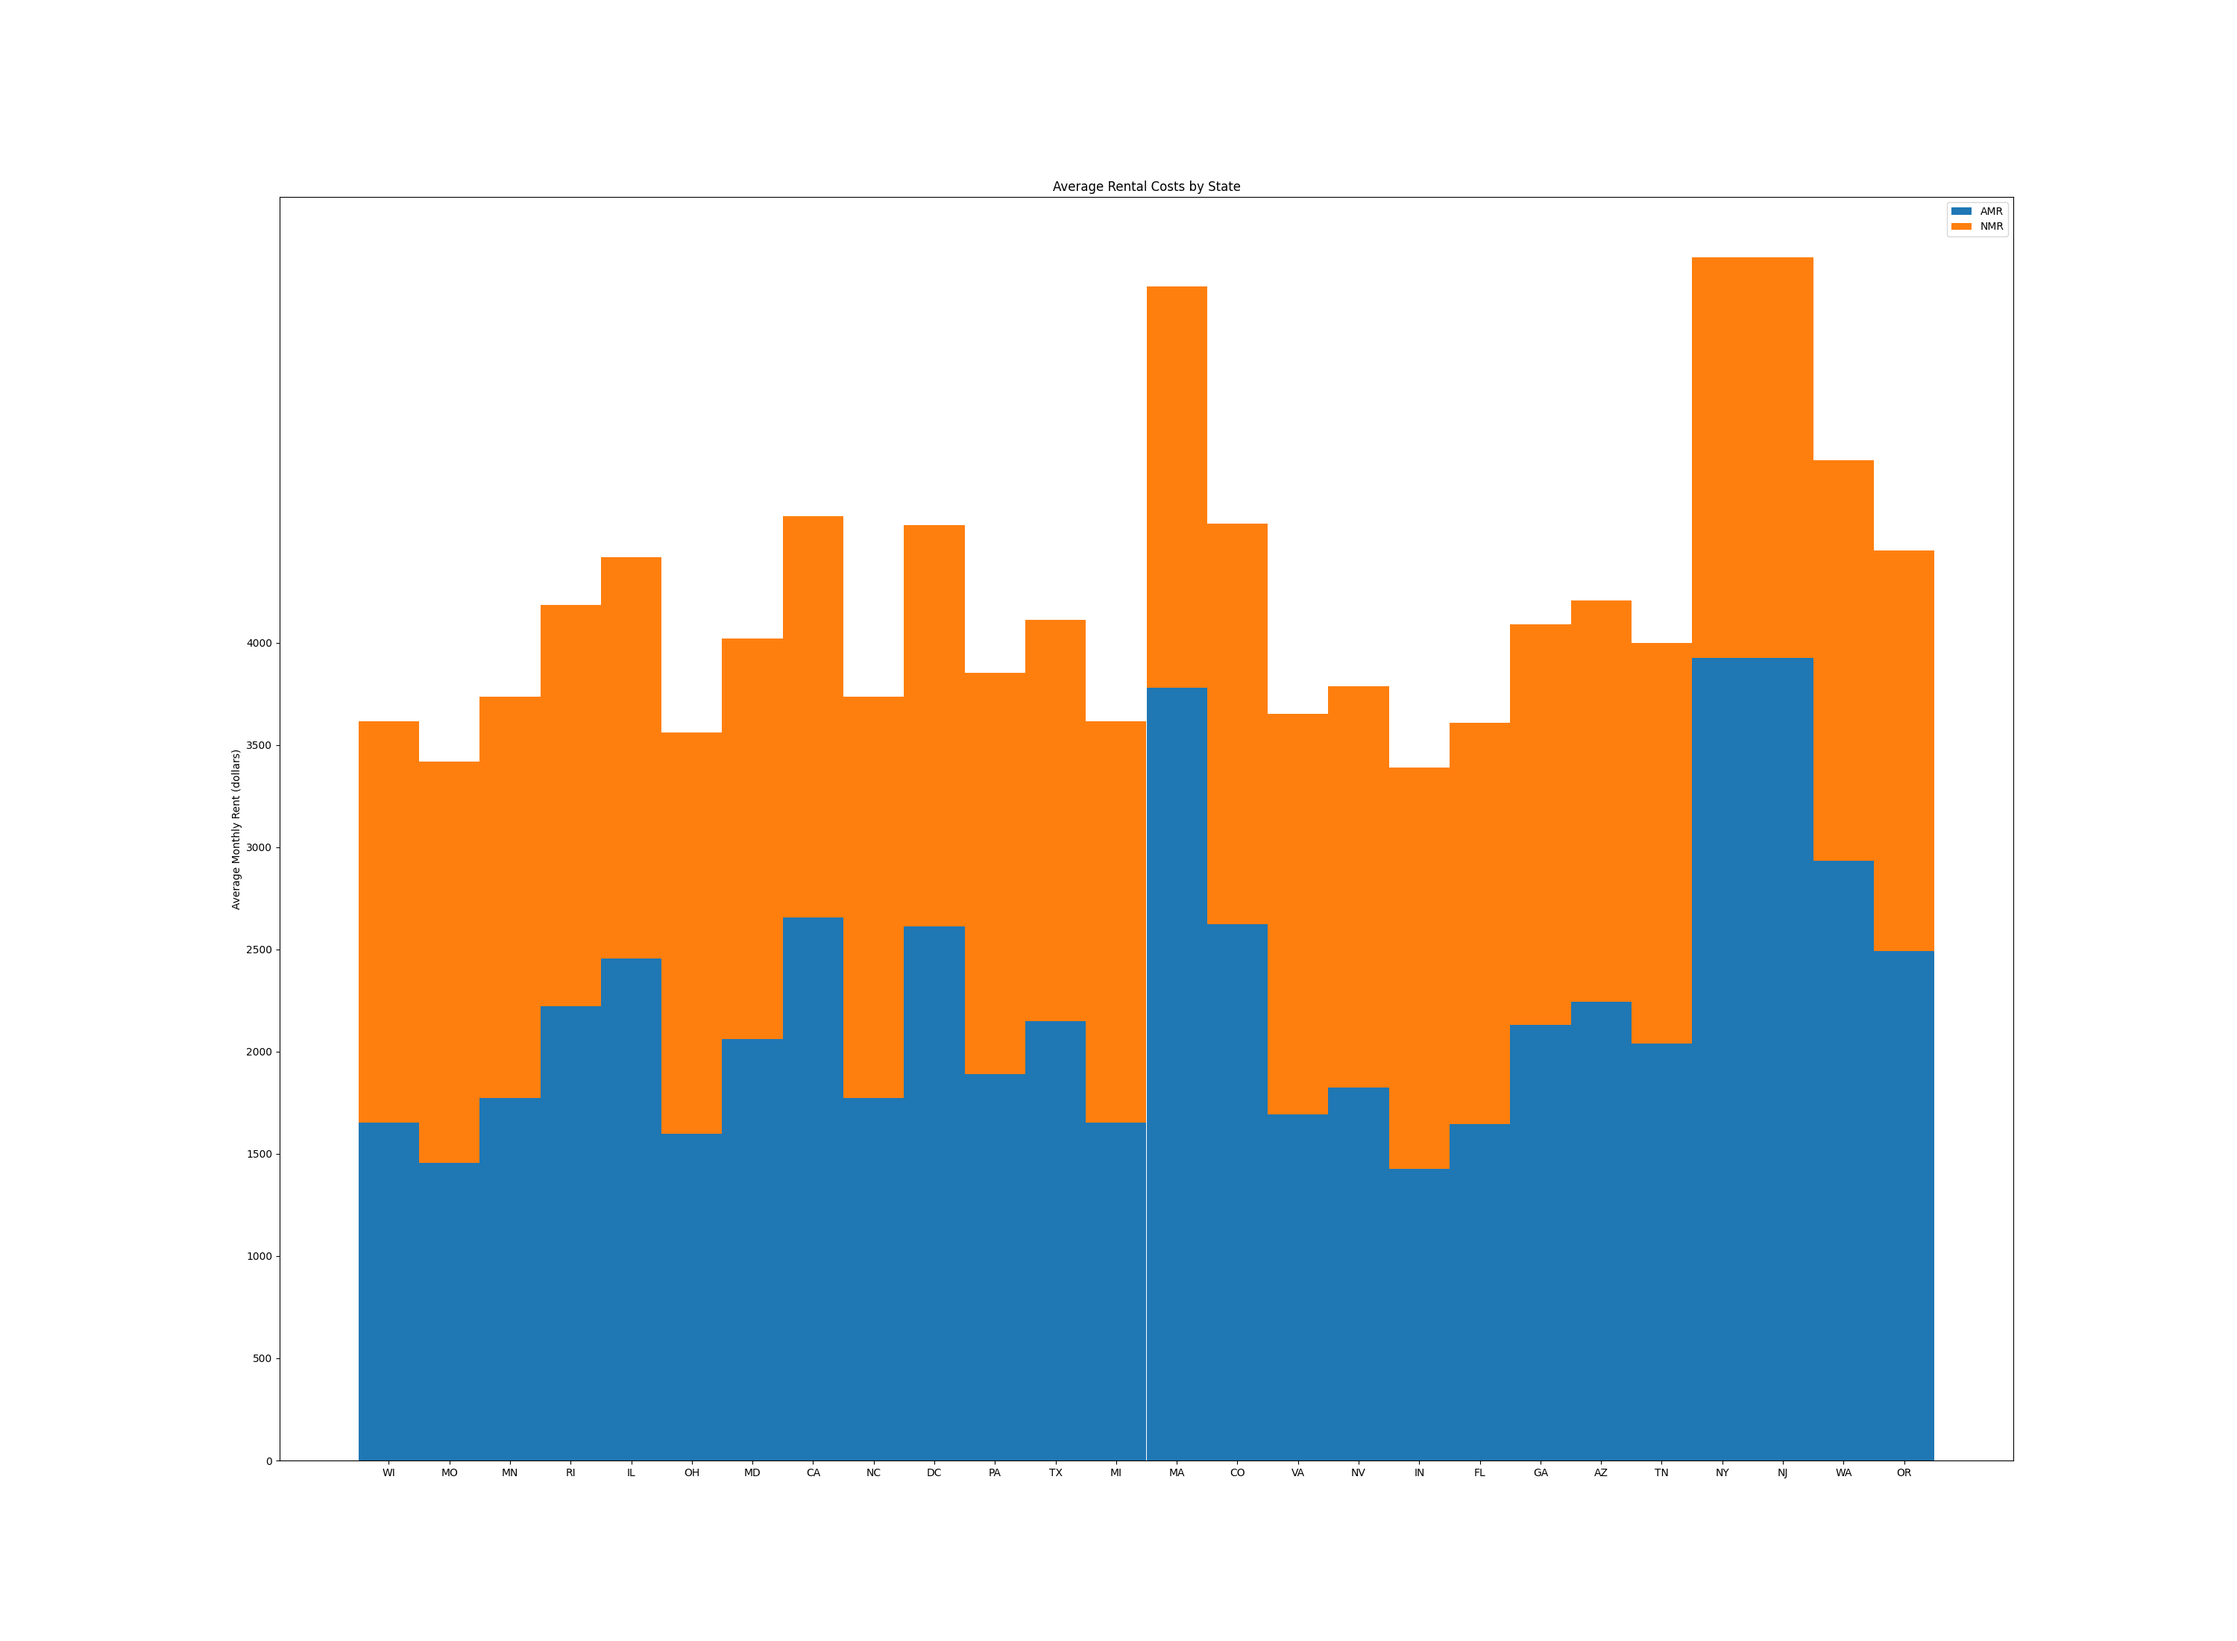
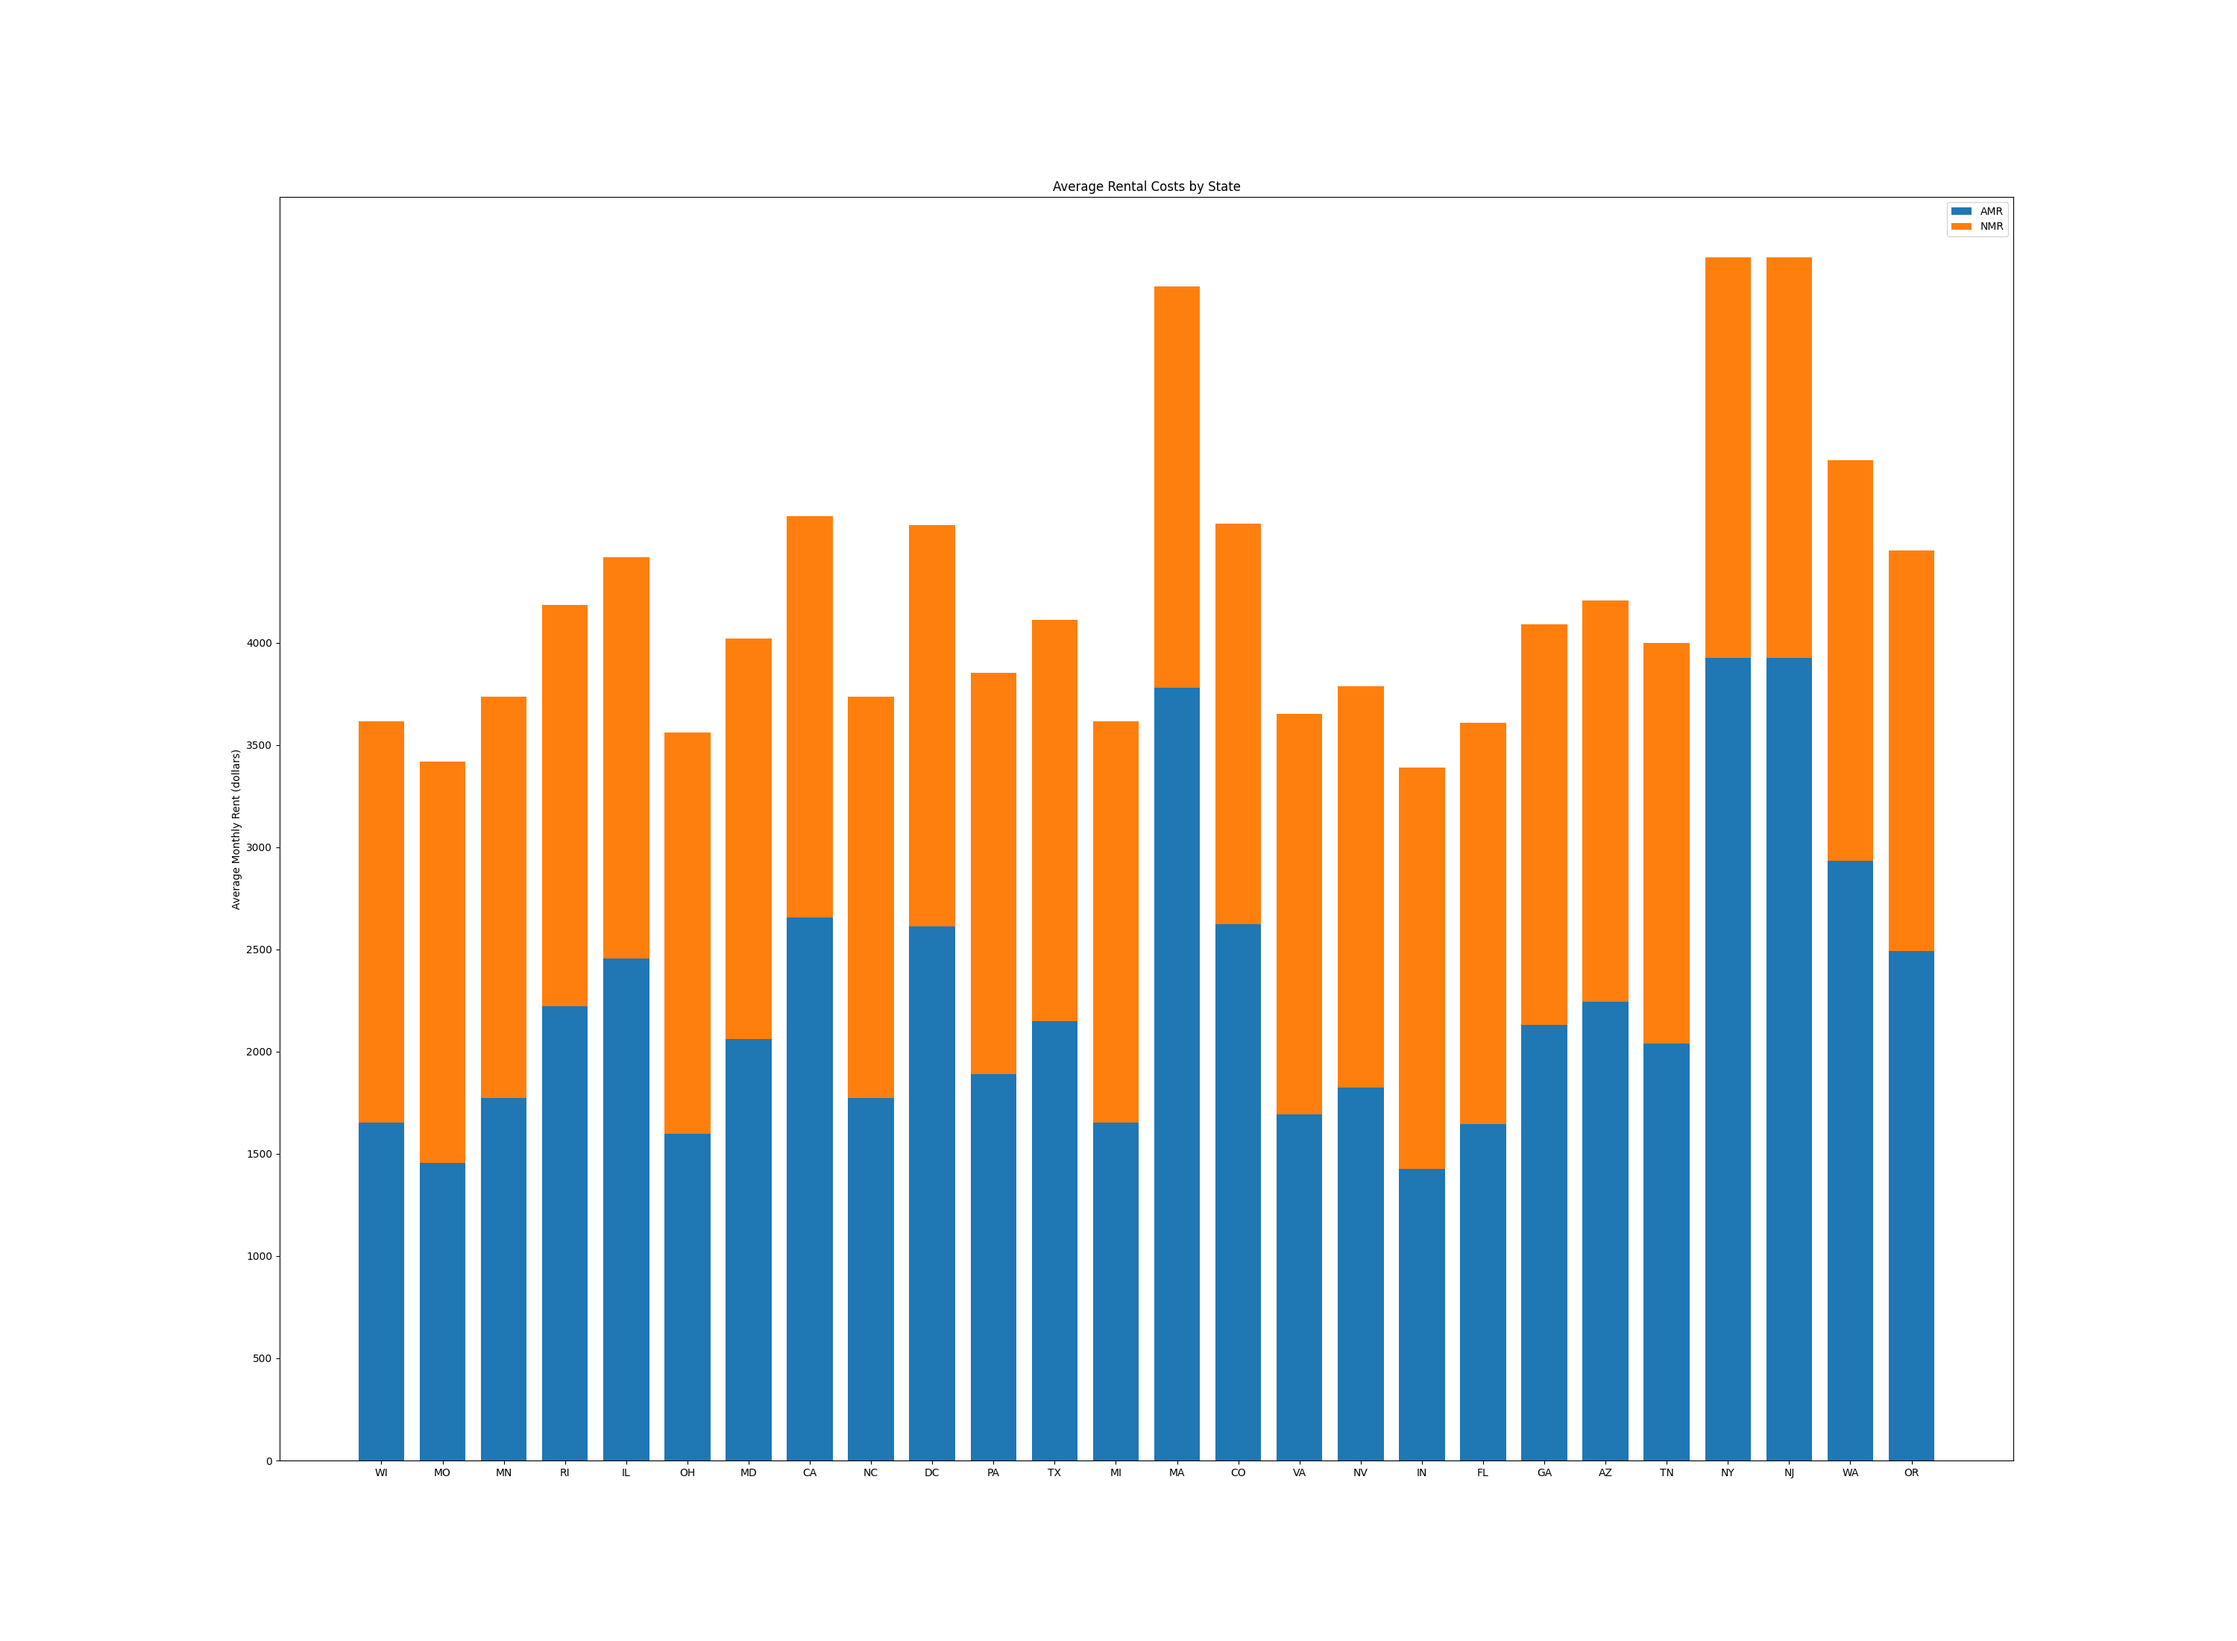
Final Project Updates

Changed region(s): [[0.155, 0.1545, 0.868, 0.8964]]

diff --git a/FinalProject.py b/FinalProject.py
@@ -74,7 +74,7 @@ def main():
     
     
     ind = np.arange(R)                                                                                        #Order of Bars 
-    width = 1                                                                                               #Width of Bar 
+    width = 0.75                                                                                               #Width of Bar 
     
     fig = plt.subplots(figsize = (30,22))
     p1 = plt.bar(ind, Average_Monthly_Rent, width)
